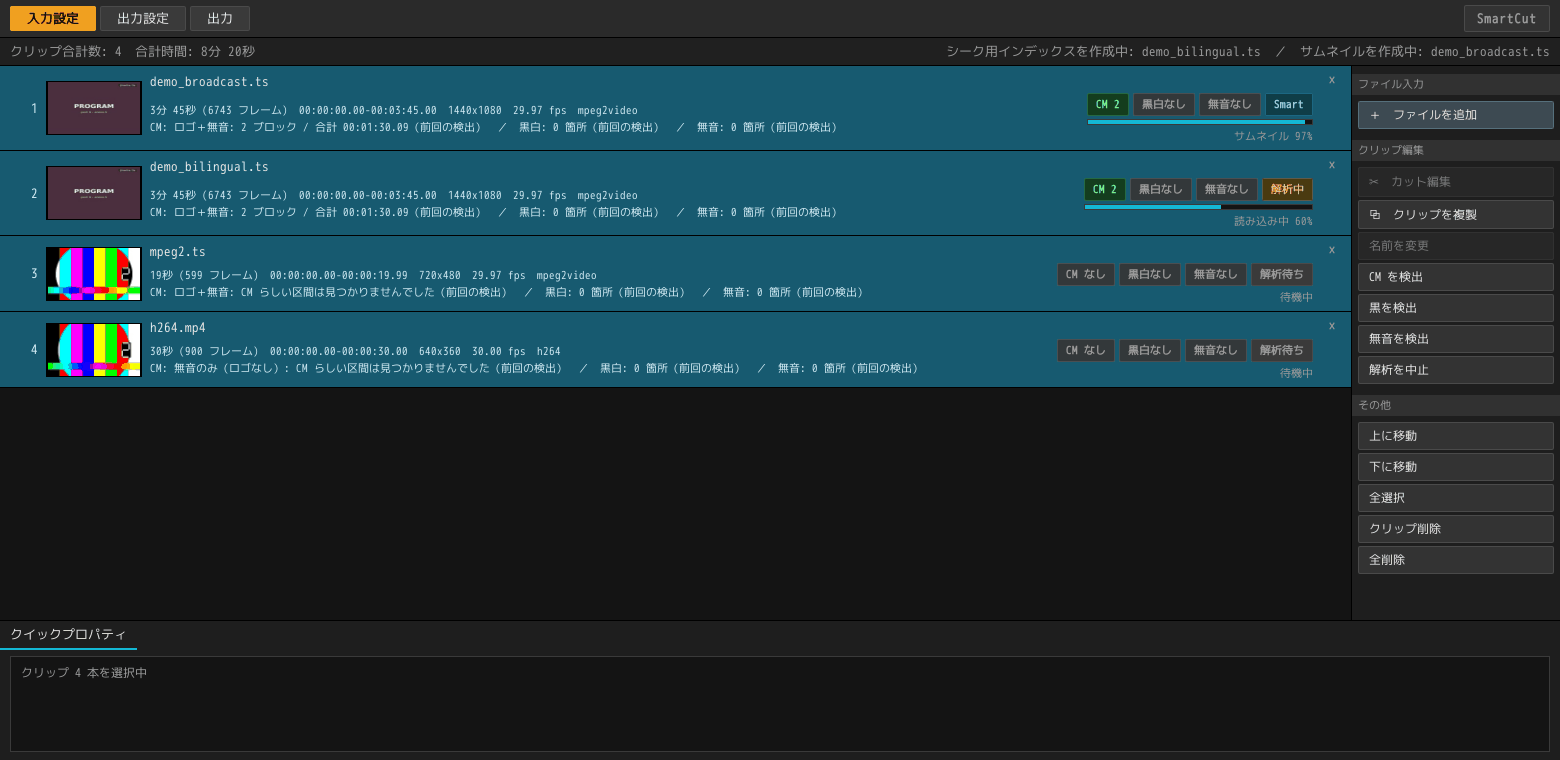
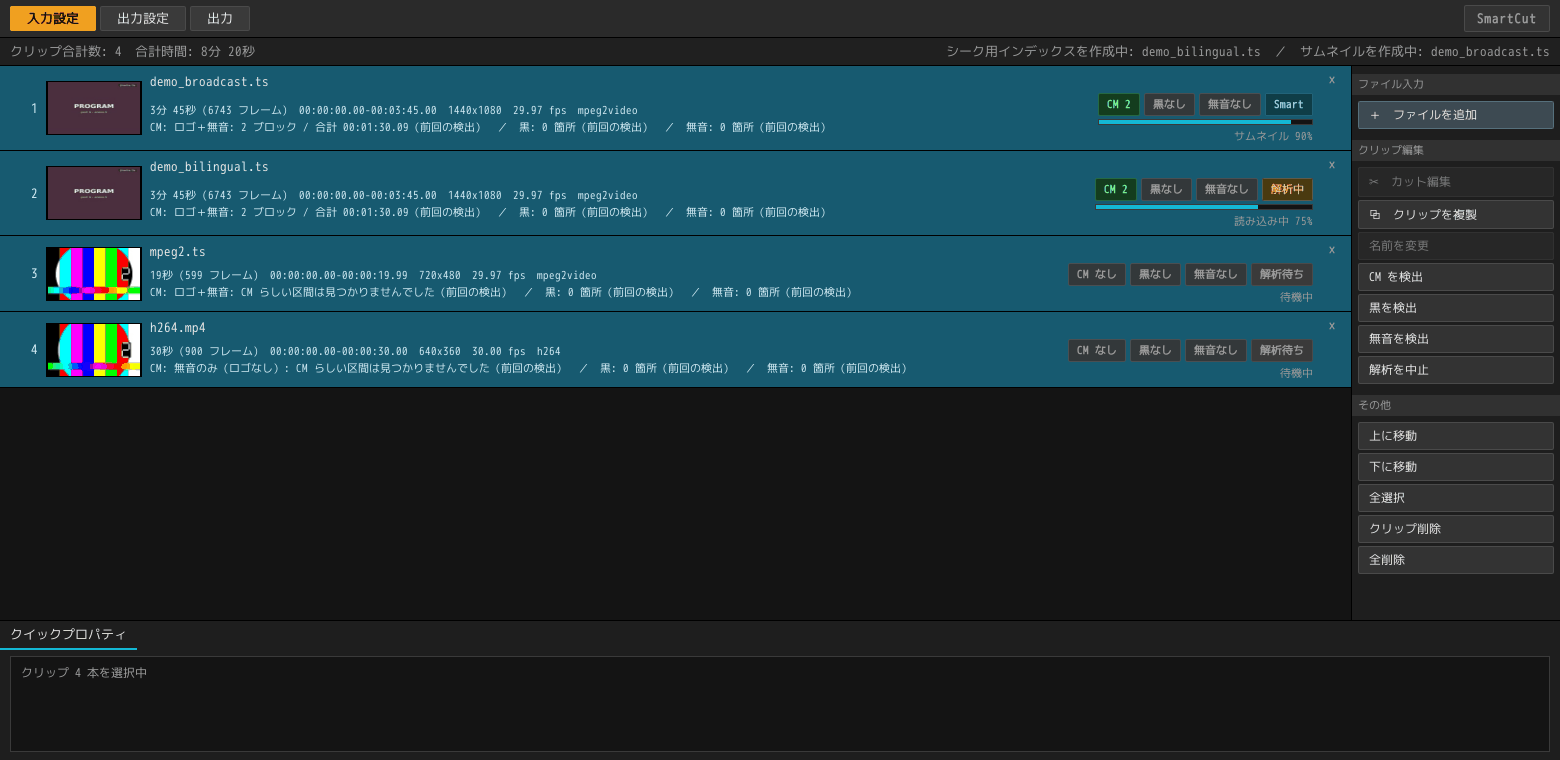
Say what the pictures pass was asked for, wherever a row answers
The button reads 黒を検出 out of the box and the row under it read 黒白なし.
Both are about the same pass, and only one of them was telling the truth: a
detection told to look for black alone has looked at no white, so "no blank"
is an answer to a question nobody asked. The editor has said 黒の区間 since
the shades could be chosen; the list's own answers had not moved.

So the badge, the line under the name and the quick properties are named the
way the button is, through `blankKey` -- 黒 1 箇所, 白 検出中 60%, 黒なし --
and the sound's half, which has only the one name, goes on saying 無音.

**Changing the answer clears what the rows are showing.** What was found
before is an answer to the question that has just been withdrawn, and
renaming it would be the same lie one step further on. The rows forget it and
ask the cache again with the shades now in force, which is what settles it:
a pass that looked for both still answers for either of them on its own and
comes straight back, and one that looked for black alone has nothing to say
about white and leaves the row bare until somebody detects again. The
silences are untouched -- they were not asked about.

Driven on the four practice recordings: black alone reads 黒なし on every
row, 黒と白 empties the pictures half and leaves 無音: 0 箇所 where it was,
and the button and the row agree at every step. The three list screens are
photographed again.

diff --git a/gui/src/i18n.js b/gui/src/i18n.js
@@ -321,6 +321,8 @@ const CATALOG = {
     "props.pending": "—",
     "props.cm": "\nCM:　{note}",
     "props.blank": "\n黒白:　{note}",
+    "props.blankBlack": "\n黒:　{note}",
+    "props.blankWhite": "\n白:　{note}",
     "props.quiet": "\n無音:　{note}",
     "media.interlaced": "インターレース (TFF)",
     "media.progressive": "プログレッシブ",
@@ -380,10 +382,21 @@ const CATALOG = {
     "row.cmQueued": "CM 検出 待機中",
     "row.cmReserved": "解析後に CM 検出",
     "row.cmNote": "CM: {note}",
+    // 黒白の 4 行は、環境設定で探すものを絞ると名前が変わります。探して
+    // いないものについて「なし」と言わないためで、ボタンの名前と同じ
+    // 決まりです。`blankKey` を通して選びます。
     "row.blankRunning": "黒白 検出中 {pct}%",
+    "row.blankRunningBlack": "黒 検出中 {pct}%",
+    "row.blankRunningWhite": "白 検出中 {pct}%",
     "row.blankQueued": "黒白の検出 待機中",
+    "row.blankQueuedBlack": "黒の検出 待機中",
+    "row.blankQueuedWhite": "白の検出 待機中",
     "row.blankReserved": "解析後に黒白を検出",
+    "row.blankReservedBlack": "解析後に黒を検出",
+    "row.blankReservedWhite": "解析後に白を検出",
     "row.blankNote": "黒白: {note}",
+    "row.blankNoteBlack": "黒: {note}",
+    "row.blankNoteWhite": "白: {note}",
     "row.quietRunning": "無音 検出中 {pct}%",
     "row.quietQueued": "無音の検出 待機中",
     "row.quietReserved": "解析後に無音を検出",
@@ -400,9 +413,17 @@ const CATALOG = {
     "badge.cmQueued": "CM 検出予約",
     "badge.cmRunning": "CM 検出中",
     "badge.blank": "黒白 {n}",
+    "badge.blankBlack": "黒 {n}",
+    "badge.blankWhite": "白 {n}",
     "badge.blankNone": "黒白なし",
+    "badge.blankNoneBlack": "黒なし",
+    "badge.blankNoneWhite": "白なし",
     "badge.blankQueued": "黒白 検出予約",
+    "badge.blankQueuedBlack": "黒 検出予約",
+    "badge.blankQueuedWhite": "白 検出予約",
     "badge.blankRunning": "黒白 検出中",
+    "badge.blankRunningBlack": "黒 検出中",
+    "badge.blankRunningWhite": "白 検出中",
     "badge.quiet": "無音 {n}",
     "badge.quietNone": "無音なし",
     "badge.quietQueued": "無音 検出予約",
@@ -1212,6 +1233,8 @@ const CATALOG = {
     "props.pending": "—",
     "props.cm": "\nCommercials:  {note}",
     "props.blank": "\nBlank:  {note}",
+    "props.blankBlack": "\nBlack:  {note}",
+    "props.blankWhite": "\nWhite:  {note}",
     "props.quiet": "\nSilence:  {note}",
     "media.interlaced": "interlaced (TFF)",
     "media.progressive": "progressive",
@@ -1272,9 +1295,17 @@ const CATALOG = {
     "row.cmReserved": "Commercial detection after the read",
     "row.cmNote": "Commercials: {note}",
     "row.blankRunning": "Blank detection {pct}%",
+    "row.blankRunningBlack": "Black detection {pct}%",
+    "row.blankRunningWhite": "White detection {pct}%",
     "row.blankQueued": "Blank detection queued",
+    "row.blankQueuedBlack": "Black detection queued",
+    "row.blankQueuedWhite": "White detection queued",
     "row.blankReserved": "Blank detection after the read",
+    "row.blankReservedBlack": "Black detection after the read",
+    "row.blankReservedWhite": "White detection after the read",
     "row.blankNote": "Blank: {note}",
+    "row.blankNoteBlack": "Black: {note}",
+    "row.blankNoteWhite": "White: {note}",
     "row.quietRunning": "Silence detection {pct}%",
     "row.quietQueued": "Silence detection queued",
     "row.quietReserved": "Silence detection after the read",
@@ -1291,9 +1322,17 @@ const CATALOG = {
     "badge.cmQueued": "CM booked",
     "badge.cmRunning": "Detecting CM",
     "badge.blank": "Blank {n}",
+    "badge.blankBlack": "Black {n}",
+    "badge.blankWhite": "White {n}",
     "badge.blankNone": "No blank",
+    "badge.blankNoneBlack": "No black",
+    "badge.blankNoneWhite": "No white",
     "badge.blankQueued": "Blank booked",
+    "badge.blankQueuedBlack": "Black booked",
+    "badge.blankQueuedWhite": "White booked",
     "badge.blankRunning": "Detecting blank",
+    "badge.blankRunningBlack": "Detecting black",
+    "badge.blankRunningWhite": "Detecting white",
     "badge.quiet": "Silence {n}",
     "badge.quietNone": "No silence",
     "badge.quietQueued": "Silence booked",

diff --git a/gui/src/app.js b/gui/src/app.js
@@ -20,7 +20,7 @@
 // lanes here and a window of its own, and the passes hold themselves to part
 // of the machine while that window is up.
 
-import { fmt, clock, coarse, chLabel, cmNote, esc, size, blankKey, noBrowserMenu, noNativeDrag }
+import { fmt, clock, coarse, chLabel, cmNote, esc, size, blankKey, flatKey, noBrowserMenu, noNativeDrag }
   from "./shared.js";
 import { t, applyStatic, preference, currentLang, setLang, onLangChange, tellBackend, confirmWithOs }
   from "./i18n.js";
@@ -1794,12 +1794,15 @@ function paintRow(clip) {
     const state = clip[`${which}State`];
     if (state === "running") {
       bits.push(
-        t(`row.${which}Running`, { pct: Math.round(clip[`${which}Progress`] * 100) })
+        t(flatKey(which, `row.${which}Running`), {
+          pct: Math.round(clip[`${which}Progress`] * 100),
+        })
       );
     } else if (state === "queued") {
-      bits.push(t(clip.state === "ready" ? `row.${which}Queued` : `row.${which}Reserved`));
+      const waiting = clip.state === "ready" ? "Queued" : "Reserved";
+      bits.push(t(flatKey(which, `row.${which}${waiting}`)));
     } else if (clip[`${which}Phase`]) {
-      bits.push(t(`row.${which}Note`, { note: clip[`${which}Phase`] }));
+      bits.push(t(flatKey(which, `row.${which}Note`), { note: clip[`${which}Phase`] }));
     }
   }
   const cutCount = clip.edit ? clip.edit.cuts.length : 0;
@@ -1932,10 +1935,15 @@ function paintDetectBadge(span, state, found, which) {
   span.hidden = !owed && !answered;
   if (owed) {
     const run = state === "running";
-    setText(span, t(run ? `badge.${which}Running` : `badge.${which}Queued`));
+    setText(span, t(flatKey(which, `badge.${which}${run ? "Running" : "Queued"}`)));
     span.className = `${which}badge dbadge ${run ? "detecting" : "queued"}`;
   } else if (answered) {
-    setText(span, found ? t(`badge.${which}`, { n: found }) : t(`badge.${which}None`));
+    setText(
+      span,
+      found
+        ? t(flatKey(which, `badge.${which}`), { n: found })
+        : t(flatKey(which, `badge.${which}None`))
+    );
     span.className = `${which}badge dbadge ${found ? "found" : "empty"}`;
   }
 }
@@ -2064,7 +2072,7 @@ function paintProps() {
     // never been asked for either of them says nothing about them, as it
     // says nothing about commercials.
     flat:
-      (c.blankPhase ? t("props.blank", { note: c.blankPhase }) : "") +
+      (c.blankPhase ? t(blankKey("props.blank"), { note: c.blankPhase }) : "") +
       (c.quietPhase ? t("props.quiet", { note: c.quietPhase }) : ""),
   });
 }
@@ -8563,6 +8571,23 @@ el("pref-blank-shades").addEventListener("change", (ev) => {
   // the pass, and the pass has just been told to look for something else.
   paintBlankLabels();
   tellEditorPrefs();
+  // ...and what the rows are already showing, which is an answer to the
+  // question that has just been withdrawn. Forgotten and asked again of the
+  // cache with the shades now in force: a pass that looked for both answers
+  // either of them on its own, and one that looked for black alone has
+  // nothing to say about white. A row whose pass is booked or running is
+  // left where it is; that one is about to write its own answer.
+  for (const c of clips) {
+    if (c.blankState !== "done") continue;
+    c.blankState = "none";
+    c.blankFound = null;
+    c.blankPhase = "";
+    c.blankSource = null;
+    paintRow(c);
+    restoreFlat(c);
+  }
+  paintButtons();
+  paintProps();
 });
 
 el("pref-blank-keyframes").addEventListener("change", (ev) => {

diff --git a/gui/src/shared.js b/gui/src/shared.js
@@ -27,6 +27,14 @@ export function blankKey(base) {
   return base;
 }
 
+/// The same for a key that names one of the two flat detections.
+///
+/// The pictures pass answers to whichever shades it was told to look for and
+/// is named for them; the sound pass has the one name and takes the key it
+/// was given. `which` is "blank" or "quiet", which is how the list holds the
+/// two apart everywhere else.
+export const flatKey = (which, base) => (which === "blank" ? blankKey(base) : base);
+
 /// A hair over, so that a sum lands on the mark it should be on.
 ///
 /// These are floored on purpose -- a timecode names the hundredth an instant

diff --git a/docs/user-guide/gui.md b/docs/user-guide/gui.md
@@ -288,8 +288,14 @@ commercial detection, and separate from each other.
 
 **The first button is named after what the pass has been told to look for.**
 Black out of the box, so *Detect black*; *Detect white* or *Detect blank* where
-Preferences says white alone or both. The row's own menu and the cut editor's
-`≡` menu follow it.
+Preferences says white alone or both. The row's own menu, the cut editor's
+`≡` menu and what a row says it found all follow it, so nothing ever reports
+"none" about a shade it never looked for.
+
+**Changing that answer clears what the rows are showing.** `Black: 3 stretches`
+is an answer to the question that has just been withdrawn, so it is forgotten
+where it cannot stand: a pass that looked for both shades still answers for
+either of them on its own and stays. The silence answers are untouched.
 
 **They run apart.** The blank pass decodes every picture, so half an hour of
 broadcast takes twenty seconds to a minute; the silence pass reads the sound
@@ -300,8 +306,8 @@ A recording still being read can be booked too: `Ctrl+A` then `Ctrl+B` sets
 every selected row going as its own read finishes, and a booked row wears a
 dashed badge until its turn comes.
 
-Progress appears on the row — `Blank detection 33%`, `Silence detection 60%` —
-and what each found stays there on its own line: `Blank: 1 stretch`,
+Progress appears on the row — `Black detection 33%`, `Silence detection 60%` —
+and what each found stays there on its own line: `Black: 1 stretch`,
 `Silence: 4 stretches`. A recording with no sound answers the silence pass with
 `Silence: Cannot detect: no audio` rather than with nothing found.
 
@@ -1065,7 +1071,7 @@ effect as you make it.
 | **When more than one is there, read** | Which file is picked up when a recording has more than one of a `.keyframe`, a `.trim.avs` and a `.cm.json` beside it |
 | **Turn a detection into keyframes** | On out of the box. Off, a detection leaves the band and the sentence and nothing else, and ≡ → **Turn the detection into keyframes** places the marks. Where a mark file beside the recording was read, a detection is not marked whatever this says |
 | **Counts as blank after** | Shorter stretches are left out. The unit is pictures or seconds; 3 s out of the box, which reports the long gaps and not the two-to-four-picture black a broadcast junction is laid on. For those, say 2 and pick pictures |
-| **The blank pass looks for** | Black and white, black alone, or white alone. **Black out of the box**, that being where a junction is laid; the button in the list and the line in the editor's menu are named after this answer — *Detect black*, *Detect white*. White belongs as often to the programme — a title sequence cuts on a flash — so on some material it is dozens of stretches nobody asked about. A shade that was not looked for was not written down either, so asking for both afterwards reads the recording again |
+| **The blank pass looks for** | Black and white, black alone, or white alone. **Black out of the box**, that being where a junction is laid; the button in the list, the line in the editor's menu and what a row says it found are all named after this answer — *Detect black*, *Black: 1 stretch*. White belongs as often to the programme — a title sequence cuts on a flash — so on some material it is dozens of stretches nobody asked about. A shade that was not looked for was not written down either, so changing this clears what the rows are showing, and detecting again reads the recording |
 | **Turn a blank detection into keyframes** | On out of the box. Off, the band under the timeline is all that is left. Where a mark file beside the recording was read, what the window opens holding is not marked whatever this says. Either way, `≡` → **Turn the blank stretches into keyframes** puts the marks down afterwards |
 | **Counts as silence after** | The same for the sound, and the same 3 s. A pause in dialogue runs 0.1 to 0.4 s and a junction's silence about a second, so anything much shorter comes back as dozens of stretches |
 | **Silence is quieter than** | -50 dB out of the box, measured on the loudest sample of each audio frame. Lower finds only what is truly silent |
